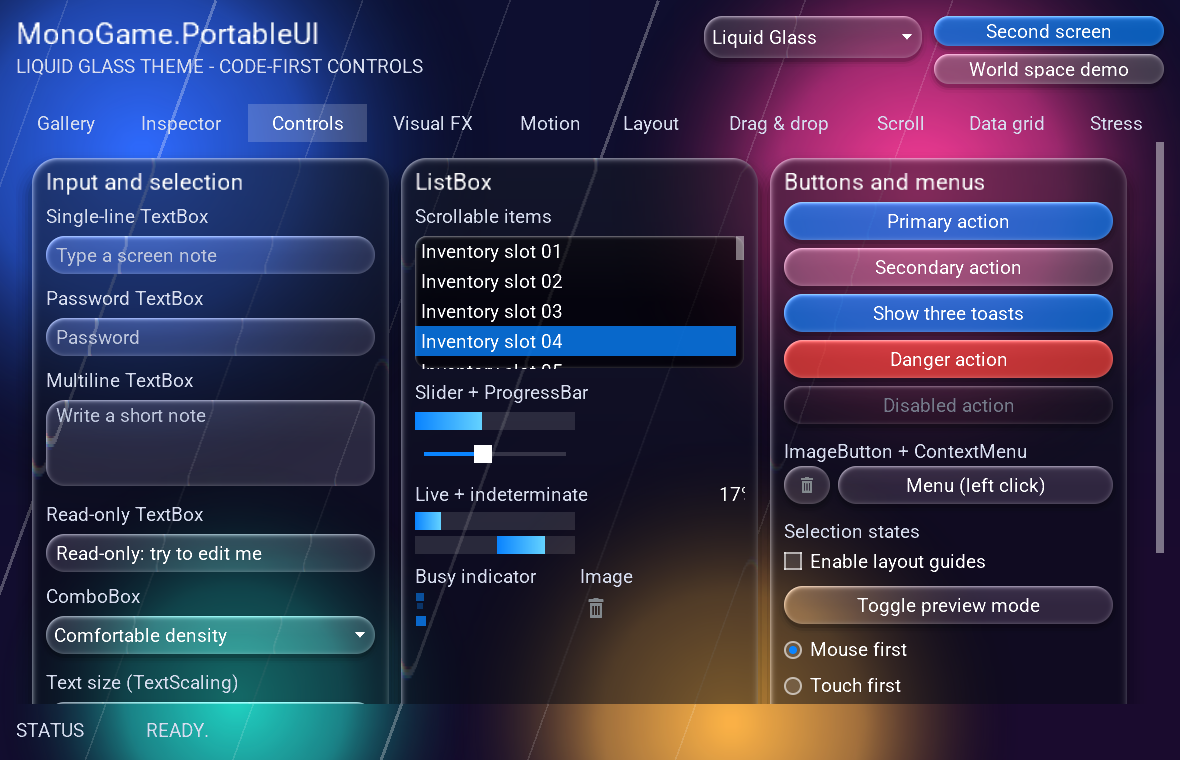
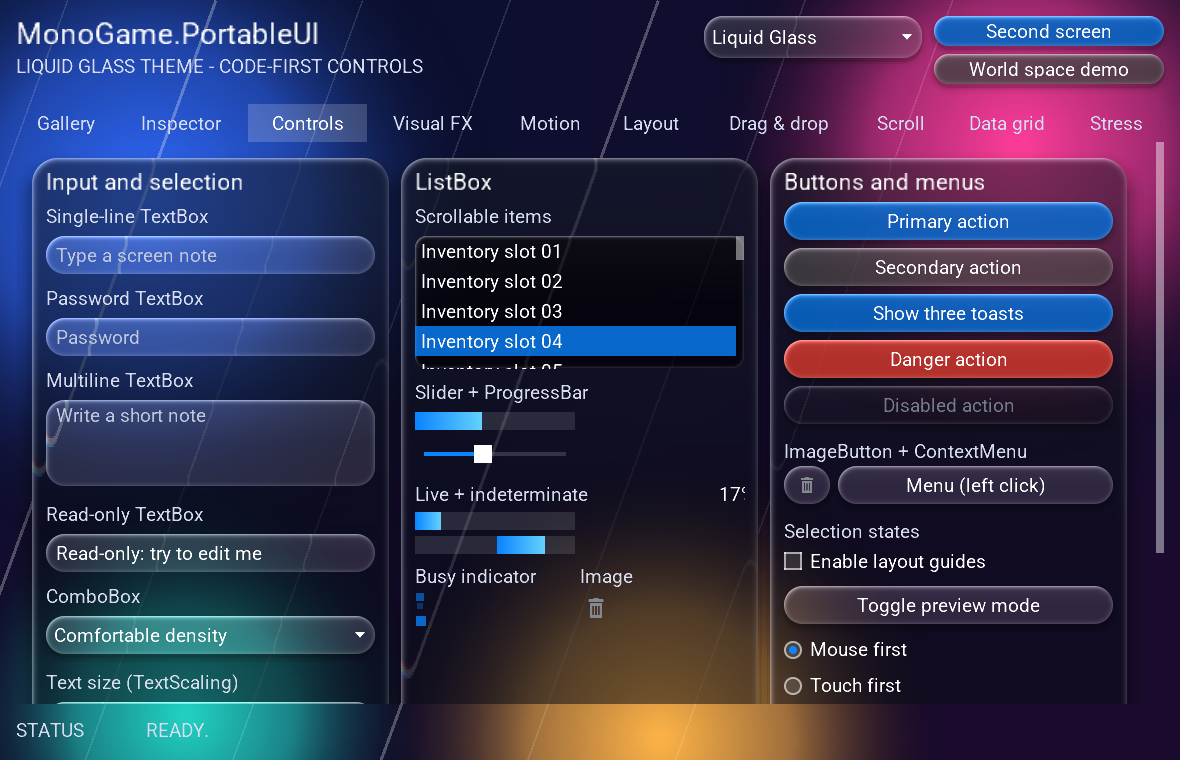
feat: nested glass for overlays, themed modal background and shadow, drifting glass wallpapers

diff --git a/src/MonoGame.PortableUI.Themes/Themes/LiquidGlassTheme.cs b/src/MonoGame.PortableUI.Themes/Themes/LiquidGlassTheme.cs
@@ -119,12 +119,16 @@ public static class LiquidGlassTheme
                 theme.FocusBorderBrush = ThemeBuilder.Solid(new Color(100, 210, 255, 200));
                 theme.ButtonShadow = new ShadowStyle { Color = new Color(0, 0, 0, 70), Offset = new Vector2(0, 4), Blur = 10 };
                 theme.PanelShadow = new ShadowStyle { Color = new Color(0, 0, 0, 110), Offset = new Vector2(0, 14), Blur = 30 };
+                // Dialogs: denser, darker glass with a wide refracting rim, so the UI behind reads as
+                // light and colour, not as competing text.
+                theme.ModalBackgroundBrush = new LiquidGlassBrush(new Color(16, 20, 42, 165)) { Frost = 0.95f, Refraction = 18, Bezel = 22, Highlight = 0.7f };
+                theme.ModalShadow = new ShadowStyle { Color = new Color(0, 0, 0, 140), Offset = new Vector2(0, 20), Blur = 40 };
             });
     }
 
     private static void Tinted(ControlStyle style, Color tint, float radius)
     {
-        ThemeBuilder.Chrome(style, new LiquidGlassBrush(tint) { Refraction = 10, Bezel = 12, Frost = 0.3f }, null, 0, radius);
+        ThemeBuilder.Chrome(style, new LiquidGlassBrush(tint) { Refraction = 10, Bezel = 12, Frost = 0.75f }, null, 0, radius);
         style.Normal.TextColor = Color.White;
         style.Disabled.Background = new LiquidGlassBrush(new Color(255, 255, 255, 14)) { Refraction = 6, Bezel = 10 };
         style.Disabled.TextColor = new Color(160, 168, 190);
@@ -144,6 +148,14 @@ public sealed class LiquidWallpaperBrush : Brush
     private readonly RadialGradientBrush _amber = Orb(ThemeBuilder.Hex("#FFB547"));
     private readonly RadialGradientBrush _teal = Orb(ThemeBuilder.Hex("#21D4C4"));
 
+    /// <summary>Lets the orbs drift slowly (the glass then visibly blurs/refracts a living scene). Default on.</summary>
+    public bool Animated { get; set; } = true;
+
+    /// <summary>Drift speed multiplier.</summary>
+    public float Speed { get; set; } = 1f;
+
+    private float _time;
+
     private static RadialGradientBrush Orb(Color color) =>
         new(new GradientStop(0, color), new GradientStop(0.45f, new Color((byte)color.R, (byte)color.G, (byte)color.B, (byte)150)), new GradientStop(1, Color.Transparent));
 
@@ -154,11 +166,14 @@ public sealed class LiquidWallpaperBrush : Brush
         if (rect.Width <= 0 || rect.Height <= 0)
             return;
         _base.Draw(spriteBatch, rect, opacity);
+        _time = Animated ? (float)MonoGame.PortableUI.Common.ScreenSystem.TotalTime.TotalSeconds * Speed : 0;
+        if (Animated)
+            ScreenEngine.RequestAnimationFrame();
         var size = Math.Max(rect.Width, rect.Height);
-        DrawOrb(spriteBatch, _blue, rect, 0.12f, 0.2f, size * 0.62f, opacity);
-        DrawOrb(spriteBatch, _pink, rect, 0.78f, 0.25f, size * 0.55f, opacity);
-        DrawOrb(spriteBatch, _amber, rect, 0.62f, 0.95f, size * 0.5f, opacity);
-        DrawOrb(spriteBatch, _teal, rect, 0.2f, 0.92f, size * 0.42f, opacity);
+        DrawOrb(spriteBatch, _blue, rect, 0.12f, 0.2f, size * 0.62f, opacity, 0);
+        DrawOrb(spriteBatch, _pink, rect, 0.78f, 0.25f, size * 0.55f, opacity, 1);
+        DrawOrb(spriteBatch, _amber, rect, 0.62f, 0.95f, size * 0.5f, opacity, 2);
+        DrawOrb(spriteBatch, _teal, rect, 0.2f, 0.92f, size * 0.42f, opacity, 3);
 
         // Crisp diagonal light lines: refraction bends them visibly at every glass rim.
         var pixel = Primitives.Pixel(spriteBatch);
@@ -170,10 +185,12 @@ public sealed class LiquidWallpaperBrush : Brush
         }
     }
 
-    private static void DrawOrb(SpriteBatch spriteBatch, Brush orb, Rect rect, float x, float y, float diameter, float opacity)
+    private void DrawOrb(SpriteBatch spriteBatch, Brush orb, Rect rect, float x, float y, float diameter, float opacity, int phase)
     {
-        var cx = rect.Left + rect.Width * x;
-        var cy = rect.Top + rect.Height * y;
+        // Slow Lissajous drift, each orb on its own phase and pace.
+        var t = _time * (0.05f + phase * 0.013f) + phase * 1.9f;
+        var cx = rect.Left + rect.Width * (x + 0.09f * MathF.Sin(t));
+        var cy = rect.Top + rect.Height * (y + 0.07f * MathF.Cos(t * 1.3f));
         orb.Draw(spriteBatch, new Rect(cx - diameter / 2, cy - diameter / 2, diameter, diameter), opacity);
     }
 }

diff --git a/src/MonoGame.PortableUI/ScreenEngine.cs b/src/MonoGame.PortableUI/ScreenEngine.cs
@@ -1,6 +1,7 @@
 using System;
 using System.Collections.Generic;
 using Microsoft.Xna.Framework;
+using Microsoft.Xna.Framework.Graphics;
 using MonoGame.PortableUI.Common;
 using MonoGame.PortableUI.Controls;
 using MonoGame.PortableUI.Controls.Events;
@@ -497,8 +498,11 @@ namespace MonoGame.PortableUI
             try
             {
                 var screens = VisibleScreens;
-                for (var i = 0; i < screens.Count; i++)
+                var start = DrawCoveredScreensForGlass(spriteBatch, screens);
+                for (var i = start; i < screens.Count; i++)
                     screens[i].Draw(spriteBatch);
+                for (var i = 0; i < screens.Count; i++)
+                    screens[i].StackBackdrop = null;
                 LeavingScreen?.Draw(spriteBatch);
                 if (_toasts is { HasContent: true } toasts)
                     toasts.Layer.Draw(spriteBatch);
@@ -507,6 +511,58 @@ namespace MonoGame.PortableUI
             {
                 ExitDraw(previous);
             }
+        }
+
+        private RenderTarget2D? _stackBackdropTarget;
+        private RenderTargetBinding[]? _stackPreviousTargets;
+
+        /// <summary>
+        ///     Nested glass: when an overlay (modal, sheet) higher in the stack has glass, the screens
+        ///     below it are rendered into an offscreen picture first, shown as usual, and handed to the
+        ///     overlays as their backdrop — so the overlay's glass blurs/refracts the real UI under it,
+        ///     not just the wallpaper. Returns the index of the first screen still to draw.
+        /// </summary>
+        private int DrawCoveredScreensForGlass(Microsoft.Xna.Framework.Graphics.SpriteBatch spriteBatch, IReadOnlyList<Screen> screens)
+        {
+            var first = -1;
+            for (var i = 1; i < screens.Count; i++)
+            {
+                if (screens[i].IsOverlay && screens[i].RequiresBackdropNow)
+                {
+                    first = i;
+                    break;
+                }
+            }
+            if (first < 0 || EffectiveRenderQuality == RenderQuality.Low)
+                return 0;
+
+            var device = spriteBatch.GraphicsDevice;
+            var width = device.Viewport.Width;
+            var height = device.Viewport.Height;
+            if (_stackBackdropTarget == null || _stackBackdropTarget.IsDisposed || _stackBackdropTarget.Width != width || _stackBackdropTarget.Height != height)
+            {
+                _stackBackdropTarget?.Dispose();
+                _stackBackdropTarget = new RenderTarget2D(device, Math.Max(1, width), Math.Max(1, height), false, SurfaceFormat.Color, DepthFormat.None, 0, RenderTargetUsage.PreserveContents);
+            }
+
+            var previousTargets = Effects.RenderTargetHelper.SnapshotRenderTargets(device, ref _stackPreviousTargets);
+            device.SetRenderTarget(_stackBackdropTarget);
+            device.Clear(Color.Transparent);
+            for (var i = 0; i < first; i++)
+                screens[i].Draw(spriteBatch);
+            if (previousTargets.Length == 0)
+                device.SetRenderTarget(null);
+            else
+                device.SetRenderTargets(previousTargets);
+
+            spriteBatch.Begin(SpriteSortMode.Deferred, BlendState.AlphaBlend);
+            spriteBatch.Draw(_stackBackdropTarget, new Rectangle(0, 0, width, height), Color.White);
+            spriteBatch.End();
+            RecordBatchFlush();
+
+            for (var i = first; i < screens.Count; i++)
+                screens[i].StackBackdrop = _stackBackdropTarget;
+            return first;
         }
 
         /// <summary>True after keyboard/gamepad input, false after pointer input.</summary>
@@ -766,6 +822,7 @@ namespace MonoGame.PortableUI
                 Game.Components.Remove(Component);
             _backdrop?.Dispose();
             _postProcess?.Dispose();
+            _stackBackdropTarget?.Dispose();
             _wake.Dispose();
         }
     }

diff --git a/src/MonoGame.PortableUI.Themes/Themes/GlassTheme.cs b/src/MonoGame.PortableUI.Themes/Themes/GlassTheme.cs
@@ -128,6 +128,8 @@ public static class GlassTheme
                 theme.FocusBorderBrush = ThemeBuilder.Solid(new Color(0, 122, 255, 170));
                 theme.ButtonShadow = new ShadowStyle { Color = new Color(40, 50, 90, 26), Offset = new Vector2(0, 2), Blur = 6 };
                 theme.PanelShadow = new ShadowStyle { Color = new Color(40, 50, 90, 46), Offset = new Vector2(0, 12), Blur = 30 };
+                theme.ModalBackgroundBrush = new FrostedGlassBrush(new Color(255, 255, 255, 205), new Color(255, 255, 255, 245), 36, 0.12f);
+                theme.ModalShadow = new ShadowStyle { Color = new Color(30, 40, 80, 70), Offset = new Vector2(0, 18), Blur = 40 };
             });
     }
 
@@ -153,6 +155,14 @@ public sealed class GlassBackdropBrush : Brush
     private readonly RadialGradientBrush _sky = Orb(ThemeBuilder.Hex("#7CC6FF"));
     private readonly RadialGradientBrush _mint = Orb(ThemeBuilder.Hex("#8BE3C9"));
 
+    /// <summary>Lets the orbs drift slowly (the glass then visibly blurs/refracts a living scene). Default on.</summary>
+    public bool Animated { get; set; } = true;
+
+    /// <summary>Drift speed multiplier.</summary>
+    public float Speed { get; set; } = 1f;
+
+    private float _time;
+
     private static RadialGradientBrush Orb(Color color) =>
         new(new GradientStop(0, color), new GradientStop(0.5f, new Color((byte)color.R, (byte)color.G, (byte)color.B, (byte)140)), new GradientStop(1, Color.Transparent));
 
@@ -163,17 +173,22 @@ public sealed class GlassBackdropBrush : Brush
         if (rect.Width <= 0 || rect.Height <= 0)
             return;
         _base.Draw(spriteBatch, rect, opacity);
+        _time = Animated ? (float)MonoGame.PortableUI.Common.ScreenSystem.TotalTime.TotalSeconds * Speed : 0;
+        if (Animated)
+            ScreenEngine.RequestAnimationFrame();
         var size = Math.Max(rect.Width, rect.Height);
-        DrawOrb(spriteBatch, _peach, rect, 0.85f, 0.15f, size * 0.6f, opacity);
-        DrawOrb(spriteBatch, _lilac, rect, 0.1f, 0.35f, size * 0.55f, opacity);
-        DrawOrb(spriteBatch, _sky, rect, 0.55f, 0.9f, size * 0.6f, opacity);
-        DrawOrb(spriteBatch, _mint, rect, 0.95f, 0.85f, size * 0.38f, opacity);
+        DrawOrb(spriteBatch, _peach, rect, 0.85f, 0.15f, size * 0.6f, opacity, 0);
+        DrawOrb(spriteBatch, _lilac, rect, 0.1f, 0.35f, size * 0.55f, opacity, 1);
+        DrawOrb(spriteBatch, _sky, rect, 0.55f, 0.9f, size * 0.6f, opacity, 2);
+        DrawOrb(spriteBatch, _mint, rect, 0.95f, 0.85f, size * 0.38f, opacity, 3);
     }
 
-    private static void DrawOrb(SpriteBatch spriteBatch, Brush orb, Rect rect, float x, float y, float diameter, float opacity)
+    private void DrawOrb(SpriteBatch spriteBatch, Brush orb, Rect rect, float x, float y, float diameter, float opacity, int phase)
     {
-        var cx = rect.Left + rect.Width * x;
-        var cy = rect.Top + rect.Height * y;
+        // Slow Lissajous drift, each orb on its own phase and pace.
+        var t = _time * (0.05f + phase * 0.013f) + phase * 1.9f;
+        var cx = rect.Left + rect.Width * (x + 0.09f * MathF.Sin(t));
+        var cy = rect.Top + rect.Height * (y + 0.07f * MathF.Cos(t * 1.3f));
         orb.Draw(spriteBatch, new Rect(cx - diameter / 2, cy - diameter / 2, diameter, diameter), opacity);
     }
 }

diff --git a/src/MonoGame.PortableUI/Controls/ModalScreen.cs b/src/MonoGame.PortableUI/Controls/ModalScreen.cs
@@ -76,16 +76,20 @@ namespace MonoGame.PortableUI.Controls
             var sheet = Options.Placement == ModalPlacement.BottomSheet;
             var theme = PortableTheme.ResolveCurrent();
 
+            var background = Options.PanelBackground ?? theme.ModalBackgroundBrush ?? theme.Panel.Normal.Background ?? theme.ContextMenuBackgroundBrush;
             Panel = new Border
             {
                 Content = content,
                 Padding = Options.Padding,
-                BackgroundBrush = Options.PanelBackground ?? theme.Panel.Normal.Background ?? theme.ContextMenuBackgroundBrush,
+                BackgroundBrush = background,
+                Shadow = theme.ModalShadow,
                 // A sheet keeps square bottom corners: it sits on the screen edge.
                 CornerRadius = sheet
                     ? new CornerRadius(Options.CornerRadius, Options.CornerRadius, 0, 0)
                     : new CornerRadius(Options.CornerRadius),
-                ClipToCornerRadius = true,
+                // Glass brushes draw their own rounded shape and must sample the backdrop at screen
+                // coordinates — an offscreen clip layer would break both.
+                ClipToCornerRadius = !background.RequiresBackdrop,
                 HorizontalAlignment = sheet ? HorizontalAlignment.Stretch : HorizontalAlignment.Center,
                 VerticalAlignment = sheet ? VerticalAlignment.Bottom : VerticalAlignment.Center,
                 Width = sheet ? float.NaN : Options.PanelWidth,

diff --git a/src/MonoGame.PortableUI/Screen.cs b/src/MonoGame.PortableUI/Screen.cs
@@ -443,7 +443,7 @@ namespace MonoGame.PortableUI
         {
             var device = spriteBatch.GraphicsDevice;
             BackdropSource.Clear(device);
-            var external = ExternalBackdrop;
+            var external = ExternalBackdrop ?? StackBackdrop;
             if (external != null && external.IsDisposed)
                 external = null;
             // Low quality skips the blur pass; glass brushes then draw their tint fallback.
@@ -486,6 +486,12 @@ namespace MonoGame.PortableUI
             engine.EffectiveRenderQuality != RenderQuality.Low
             && control is ThemeIsland { IsVisible: true, Theme.PostEffects: { Count: > 0 } effects }
             && engine.PostProcess.CountEnabled(effects) > 0;
+
+        /// <summary>True when something on this screen (glass) samples the backdrop.</summary>
+        internal bool RequiresBackdropNow => ScreenRect.Width > 0 && ScreenRect.Height > 0 && TreeRequiresBackdrop();
+
+        /// <summary>The picture of the screens below, handed in by the engine for overlays with glass.</summary>
+        internal Texture2D? StackBackdrop { get; set; }
 
         private bool TreeRequiresBackdrop()
         {

diff --git a/src/MonoGame.PortableUI/PortableTheme.cs b/src/MonoGame.PortableUI/PortableTheme.cs
@@ -219,6 +219,15 @@ namespace MonoGame.PortableUI
         /// </summary>
         public CursorStyle Cursor { get; set; } = CursorStyle.ModernArrow(Color.White, Color.Black);
 
+        /// <summary>
+        ///     Background of modal dialogs and sheets; null = the panel/context-menu background.
+        ///     Glass themes give dialogs a denser glass than their cards so text behind stays out of the way.
+        /// </summary>
+        public Brush? ModalBackgroundBrush { get; set; }
+
+        /// <summary>Shadow under modal dialogs (they float above everything); null = none.</summary>
+        public ShadowStyle? ModalShadow { get; set; } = new ShadowStyle { Color = new Color(0, 0, 0, 90), Offset = new Vector2(0, 16), Blur = 32 };
+
         /// <summary>Drop shadow applied to buttons; null = no shadow.</summary>
         public ShadowStyle? ButtonShadow { get; set; }
 

diff --git a/CHANGELOG.md b/CHANGELOG.md
@@ -9,6 +9,8 @@
 - **Chrome brushes:** `ChamferBrush` (cut corners, gradients, accent bar), `FrameBrush` (concentric rings, notched pixel corners), chained shadows (`ShadowStyle.Also`), bevel lines scaled under `LayoutScale` (`BrushContext.Scale`).
 - **Display effects:** `ScreenEngineOptions.PostEffects` / `UISurface.PostEffects` hold effects of the screen the UI is shown on (e.g. an in-world CRT's curvature and scanlines). They run after the theme's effects and survive theme changes; pointer input follows the curvature. Amber and Phosphor no longer curve the flat screen; the world-space demo monitor is a CRT by default and switches to LCD. `IsPointOnDisplay` tells hosts whether a point is on the (curved) picture; the demo shows the in-game pointer only there and the system pointer everywhere else.
 - **Liquid glass, for real:** `LiquidGlassBrush` refracts the sharp backdrop with a new `LiquidGlass` shader — lens-like displacement at the rounded rim, slight chromatic fringe, specular top-left rim, almost clear body (`Refraction`, `Bezel`, `Chroma`, `Frost`, `Highlight`); falls back to frosted acrylic without shader support. `BackdropSource.TryGetSharp` exposes the unblurred backdrop.
+- **Nested glass:** when an overlay (modal, sheet) contains glass, the engine renders the screens below into an offscreen picture and hands it to the overlay as its backdrop, so dialog glass blurs/refracts the real UI underneath. New theme slots `ModalBackgroundBrush` and `ModalShadow`; glass dialogs keep their rounded shape (no clip layer).
+- **Animated wallpapers:** the glass themes' backgrounds drift slowly (`Animated`, `Speed`), requesting frames in on-demand mode.
 - **Glass themes redesigned:** Liquid Glass (dark, vivid orb wallpaper, refracting pill buttons and rounded cards) and Frosted Glass (light, milky frost over a pastel wallpaper, filled system-style buttons, segmented tabs). The demo dropped its glass-only panel special case; cards take corners and shadows from the theme.
 - **Pointer capture for in-world screens:** `SurfacePointerCapture` — click in, Escape out: relative mouse motion drives a pointer that belongs to the surface (unaffected by camera/monitor movement), confined to the visible picture incl. the CRT curve; the release key is swallowed. `WorldSurfaceMapper.MapSurfaceToScreen` puts the system pointer back where the in-world one was. The world-space demo starts in capture mode and can switch to the free hover pointer.
 - **Themed software cursor:** `PortableTheme.Cursor` (`CursorStyle.ModernArrow` fine and anti-aliased, `Arrow` classic 1-bit, `PixelArrow` 8-bit) drawn when `ScreenEngineOptions.ShowSoftwareCursor` / `UISurface.ShowSoftwareCursor` is on. It is part of the UI, so display effects such as CRT curvature bend it while it stays under the physical pointer. Defaults follow the theme era (pixel for retro, 1-bit for classic desktops/terminals, fine for modern); several themes bring their own colors. Demo: `--screenshot-cursor x,y`.
